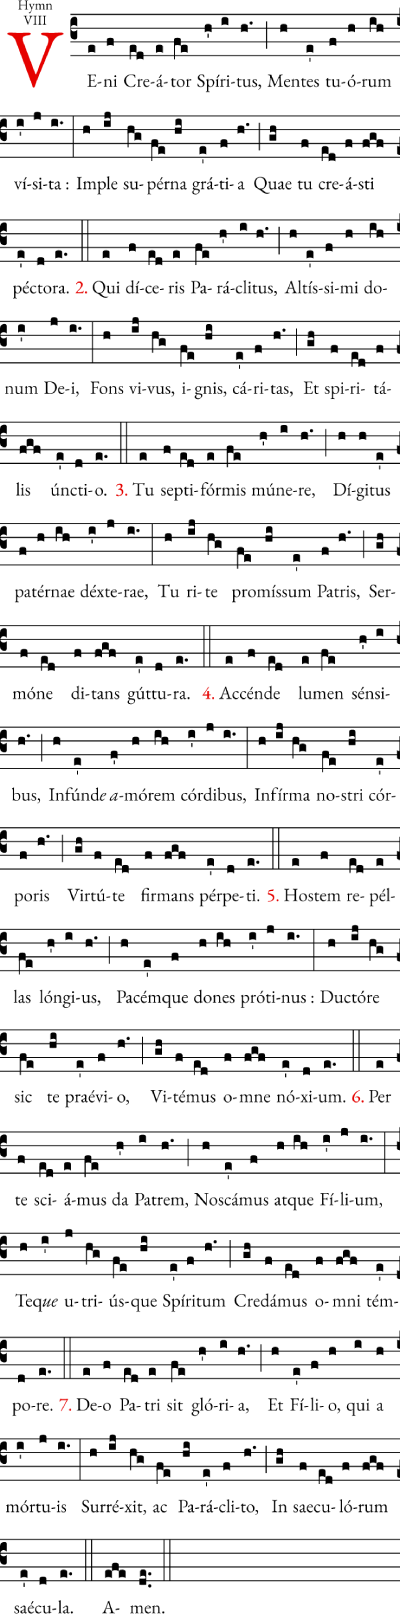
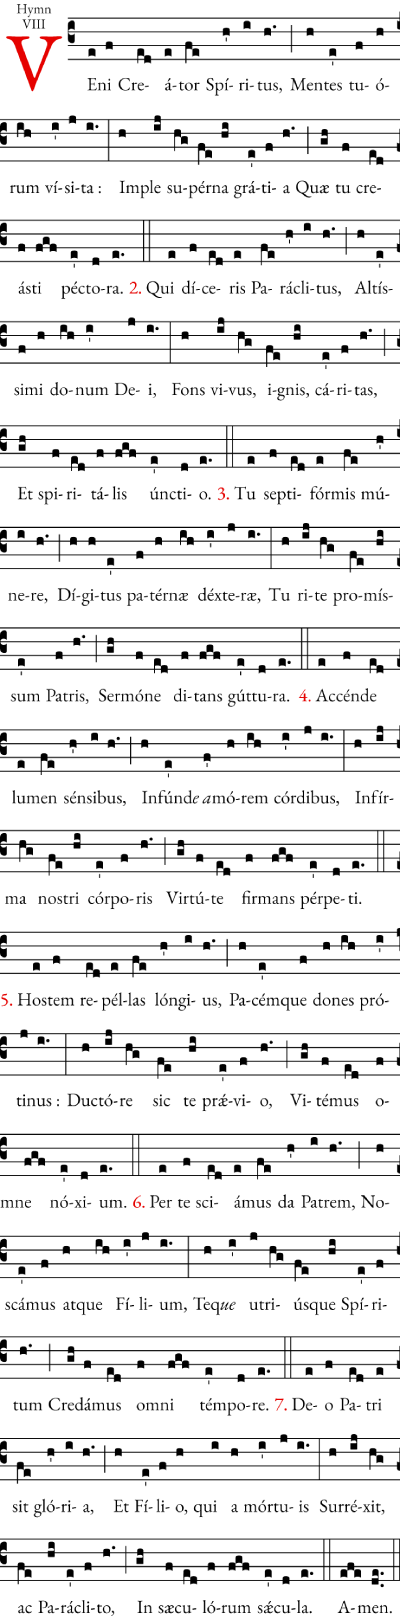
upd greg sheet component; add missing sheets for consagracao-completa

Changed region(s): [[0.0, 0.0, 1.0, 1.0]]

diff --git a/src/lib/file-rendering.tsx b/src/lib/file-rendering.tsx
@@ -480,7 +480,9 @@ export function DevocionarioFile({
 
             useEffect(() => {
               const map = getExpandedSheetMap()
-              setIsOpen(map[mapKey] ?? false)
+              if (mapKey in map) {
+                setIsOpen(map[mapKey])
+              }
             }, [])
 
             const handleToggle = () => {
@@ -505,82 +507,86 @@ export function DevocionarioFile({
                 </Button>
               </CollapsibleTrigger>
 
-              <CollapsibleContent className="w-full flex flex-col items-center data-[state=closed]:animate-collapsible-up data-[state=open]:animate-collapsible-down">
-                <div className="w-full max-w-[400px] hidden min-[280px]:!block min-[400px]:!hidden">
-                  <Image
-                    src={`/gregorian-chant/${(content.content as GregorianPngContent).light[400]}.png`}
-                    alt={(content.content as GregorianPngContent).alt}
-                    width={0}
-                    height={0}
-                    sizes="100vw"
-                    className="w-full h-auto dark:hidden"
-                  />
-                  <Image
-                    src={`/gregorian-chant/${(content.content as GregorianPngContent).dark[400]}.png`}
-                    alt={(content.content as GregorianPngContent).alt}
-                    width={0}
-                    height={0}
-                    sizes="100vw"
-                    className="w-full h-auto hidden dark:block"
-                  />
-                </div>
+              <CollapsibleContent className="w-full flex flex-col items-center gap-4 data-[state=closed]:animate-collapsible-up data-[state=open]:animate-collapsible-down">
+                {(content.content as GregorianPngContent).map((sheet, index) => {
+                  return <div className="w-full flex flex-col items-center" key={`${parsedIndex}-${index}`}>
+                    <div className="w-full max-w-[400px] hidden min-[280px]:!block min-[400px]:!hidden">
+                      <Image
+                        src={`/gregorian-chant/${sheet.light[400]}.png`}
+                        alt={sheet.alt}
+                        width={0}
+                        height={0}
+                        sizes="100vw"
+                        className="w-full h-auto dark:hidden"
+                      />
+                      <Image
+                        src={`/gregorian-chant/${sheet.dark[400]}.png`}
+                        alt={sheet.alt}
+                        width={0}
+                        height={0}
+                        sizes="100vw"
+                        className="w-full h-auto hidden dark:block"
+                      />
+                    </div>
 
-                <div className="w-full max-w-[450px] hidden min-[400px]:!block min-[450px]:!hidden">
-                  <Image
-                    src={`/gregorian-chant/${(content.content as GregorianPngContent).light[450]}.png`}
-                    alt={(content.content as GregorianPngContent).alt}
-                    width={0}
-                    height={0}
-                    sizes="100vw"
-                    className="w-full h-auto dark:hidden"
-                  />
-                  <Image
-                    src={`/gregorian-chant/${(content.content as GregorianPngContent).dark[450]}.png`}
-                    alt={(content.content as GregorianPngContent).alt}
-                    width={0}
-                    height={0}
-                    sizes="100vw"
-                    className="w-full h-auto hidden dark:block"
-                  />
-                </div>
+                    <div className="w-full max-w-[450px] hidden min-[400px]:!block min-[450px]:!hidden">
+                      <Image
+                        src={`/gregorian-chant/${sheet.light[450]}.png`}
+                        alt={sheet.alt}
+                        width={0}
+                        height={0}
+                        sizes="100vw"
+                        className="w-full h-auto dark:hidden"
+                      />
+                      <Image
+                        src={`/gregorian-chant/${sheet.dark[450]}.png`}
+                        alt={sheet.alt}
+                        width={0}
+                        height={0}
+                        sizes="100vw"
+                        className="w-full h-auto hidden dark:block"
+                      />
+                    </div>
 
-                <div className="w-full max-w-[500px] hidden min-[450px]:!block min-[500px]:!hidden">
-                  <Image
-                    src={`/gregorian-chant/${(content.content as GregorianPngContent).light[500]}.png`}
-                    alt={(content.content as GregorianPngContent).alt}
-                    width={0}
-                    height={0}
-                    sizes="100vw"
-                    className="w-full h-auto dark:hidden"
-                  />
-                  <Image
-                    src={`/gregorian-chant/${(content.content as GregorianPngContent).dark[500]}.png`}
-                    alt={(content.content as GregorianPngContent).alt}
-                    width={0}
-                    height={0}
-                    sizes="100vw"
-                    className="w-full h-auto hidden dark:block"
-                  />
-                </div>
+                    <div className="w-full max-w-[500px] hidden min-[450px]:!block min-[500px]:!hidden">
+                      <Image
+                        src={`/gregorian-chant/${sheet.light[500]}.png`}
+                        alt={sheet.alt}
+                        width={0}
+                        height={0}
+                        sizes="100vw"
+                        className="w-full h-auto dark:hidden"
+                      />
+                      <Image
+                        src={`/gregorian-chant/${sheet.dark[500]}.png`}
+                        alt={sheet.alt}
+                        width={0}
+                        height={0}
+                        sizes="100vw"
+                        className="w-full h-auto hidden dark:block"
+                      />
+                    </div>
 
-                <div className="w-full max-w-[578px] hidden min-[500px]:!block">
-                  <Image
-                    src={`/gregorian-chant/${(content.content as GregorianPngContent).light[578]}.png`}
-                    alt={(content.content as GregorianPngContent).alt}
-                    width={0}
-                    height={0}
-                    sizes="100vw"
-                    className="w-full h-auto dark:hidden"
-                  />
-                  <Image
-                    src={`/gregorian-chant/${(content.content as GregorianPngContent).dark[578]}.png`}
-                    alt={(content.content as GregorianPngContent).alt}
-                    width={0}
-                    height={0}
-                    sizes="100vw"
-                    className="w-full h-auto hidden dark:block"
-                  />
-                </div>
+                    <div className="w-full max-w-[578px] hidden min-[500px]:!block">
+                      <Image
+                        src={`/gregorian-chant/${sheet.light[578]}.png`}
+                        alt={sheet.alt}
+                        width={0}
+                        height={0}
+                        sizes="100vw"
+                        className="w-full h-auto dark:hidden"
+                      />
+                      <Image
+                        src={`/gregorian-chant/${sheet.dark[578]}.png`}
+                        alt={sheet.alt}
+                        width={0}
+                        height={0}
+                        sizes="100vw"
+                        className="w-full h-auto hidden dark:block"
+                      />
+                    </div>
+                  </div>
+                })}
               </CollapsibleContent>
 
             </Collapsible>

diff --git a/src/lib/types/devocionarios.ts b/src/lib/types/devocionarios.ts
@@ -66,7 +66,7 @@ export type GregorianPngContent = {
     "500": string,
     "578": string,
   }
-}
+}[]
 
 export type HorizontalLineTypes = (
   "full" |
